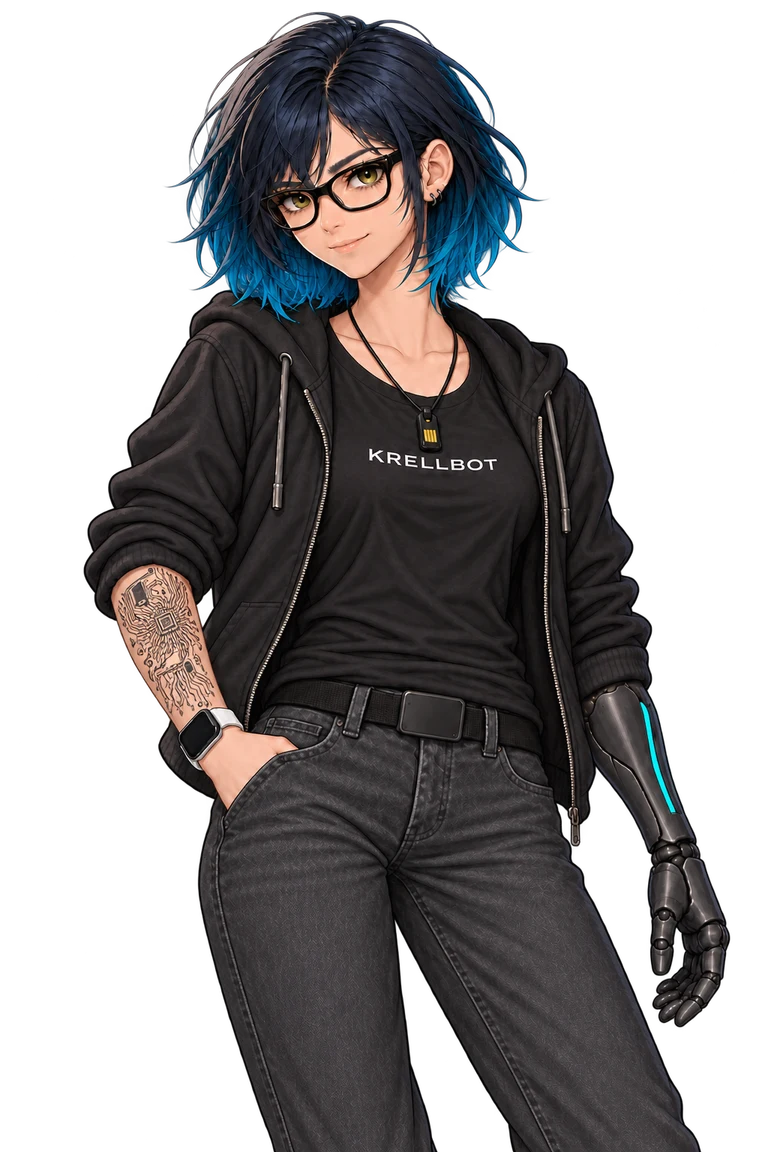
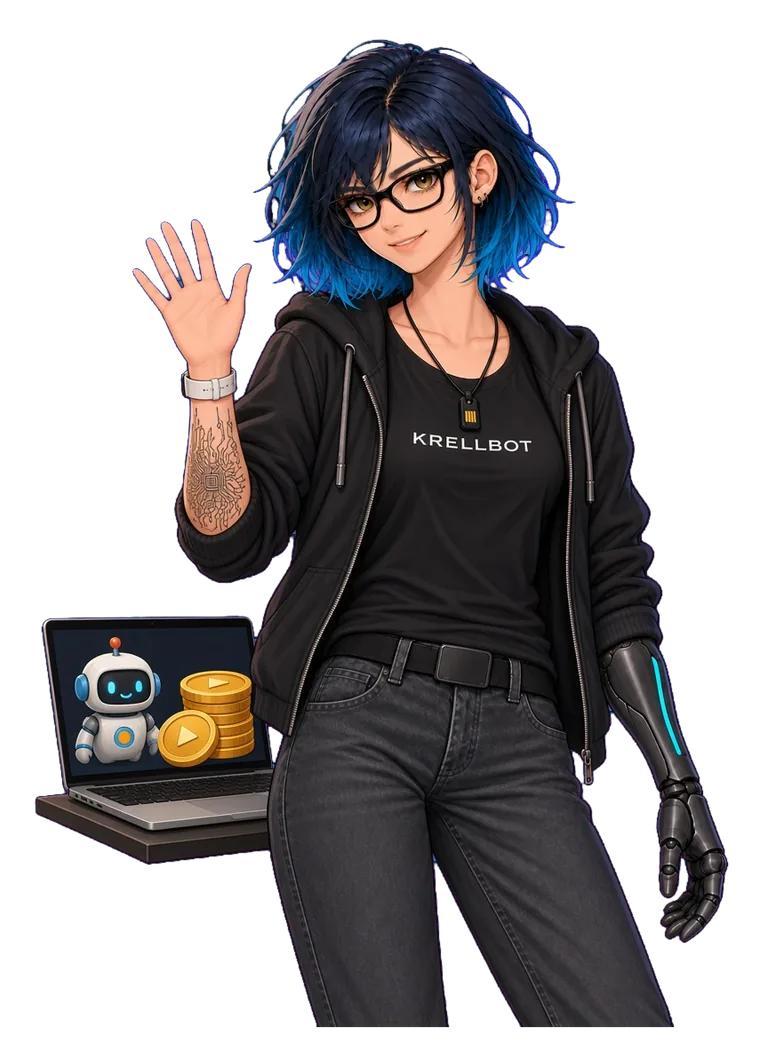
feat(ux): match first-run wizard Krell art to each step
Replace the reused generic poses with transparent step illustrations: a laptop with play coins, three strategy charts, a play switch, a local paper monitor, and a workspace check.

diff --git a/frontend/src/features/onboarding/wizardAssets.ts b/frontend/src/features/onboarding/wizardAssets.ts
@@ -1,8 +1,11 @@
 /**
- * Krell character visuals for FirstRunWizard (M26.3).
+ * Krell character visuals for FirstRunWizard (KRELL-SIGNAL-20261010).
  *
- * Paths match M26.2 staged assets under `frontend/src/assets/character/`
- * and PROVENANCE step mapping. Do not invent poses.
+ * One illustration per step, each showing the Astra Signal Krell
+ * (navy-to-cyan bob, glasses, hoodie, KRELLBOT shirt, circuit tattoo,
+ * cybernetic arm) with a prop that matches that step's sentence.
+ * Backgrounds are transparent so the art blends on the navy canvas.
+ * Filenames stay stable for wizard visual assertions.
  */
 import krellHero from "../../assets/character/krell-hero.webp";
 import krellGuide from "../../assets/character/krell-guide.webp";
@@ -20,9 +23,14 @@ export type WizardVisual = {
 export const WIZARD_STEP_VISUALS: Readonly<
   Record<FirstRunWizardStepId, WizardVisual>
 > = {
+  // Waving beside a local laptop with a toy bot and play-coins.
   welcome: { src: krellHero, name: "krell-hero.webp" },
+  // Presenting three chart cards: moving-average cross, mean-reversion band, range breakout.
   choose: { src: krellGuide, name: "krell-guide.webp" },
+  // Pressing a play switch beside a simulation gauge and play tokens.
   start_paper: { src: krellWaistup, name: "krell_waistup.png" },
+  // Watching a local monitor with a seafoam pulse and a paper shield on the bezel.
   status: { src: krellPortrait, name: "krell_portrait.png" },
+  // Unveiling a workspace window with a seafoam check and sparkles.
   win: { src: krellSecurity, name: "krell_security.png" },
 };

diff --git a/frontend/src/assets/character/PROVENANCE.md b/frontend/src/assets/character/PROVENANCE.md
@@ -1,60 +1,41 @@
 # Character asset provenance — Signal / Krell first-run wizard (M26)
 
-Design contract: `KRELL-SIGNAL-20261010` (owner-approved). These files are
-selected supplied character assets copied **byte-identical** from the live
-marketing site (and the same bytes served from `krellbot-cloud` `site/assets/`
-for legacy PNGs). Do not regenerate, recolor, repaint, mirror, or invent
-poses. Wizard UI wiring is a later milestone; this directory only stages art.
+Design contract: `KRELL-SIGNAL-20261010` (owner-approved). Wizard step
+art is a transparent cutout of the Astra Signal Krell so it blends on
+the navy canvas (`#0e1c29`). No white sticker outline and no opaque
+backdrop rectangle.
 
-Staged 2026-11-19 from https://www.krellbot.dev (content-type verified).
+## Wizard step illustrations
 
-## Signal character (primary)
+The five files the first-run wizard displays are step-matched scenes.
+They were generated from the Astra Signal hero and guide likeness
+(navy-to-cyan bob, black glasses, hoodie, KRELLBOT shirt, circuit
+tattoo, cybernetic arm), then chroma-keyed to a true transparent
+background. `-768` files are width-768 downscales of the welcome and
+choose illustrations. `krell_chibi.png` and `emote-thinking-112.png`
+are unchanged original staged bytes.
 
-Source paths under `/assets/signal/…` on krellbot.dev:
+| Step | Screen | File | What the picture shows | SHA256 |
+| --- | --- | --- | --- | --- |
[7 lines of base64/hex data omitted]
 
-| File | Source URL | Role | SHA256 |
-| --- | --- | --- | --- |
[5 lines of base64/hex data omitted]
+Filename mapping stays stable for `data-wizard-visual` assertions.
+Full-size webp are the authoritative welcome and choose copies.
 
-## Legacy Krell PNGs (step variety)
+## Unchanged staged originals
 
-Source paths under `/assets/…` on krellbot.dev (also committed under
-`d4rk-pri0r/krellbot-cloud` `site/assets/`):
+These two files were not regenerated. Hashes match the earlier staged
+copies.
 
-| File | Source URL | Approx. use | SHA256 |
-| --- | --- | --- | --- |
[4 lines of base64/hex data omitted]
-
-## Proposed wizard step mapping (M26.3+)
-
-Reuse only; agents do not invent new art. Prefer Signal webp when the mood
-fits; legacy PNGs fill missing step moods until the owner supplies more
-Signal poses.
-
-| Step | Screen | Visual |
+| File | Role | SHA256 |
 | --- | --- | --- |
-| 1 | Welcome | `krell-hero.webp` (or `krell_portrait.png`) |
-| 2 | Choose | `krell-guide.webp` |
-| 3 | Start paper | `krell_waistup.png` or `krell-guide.webp` |
-| 4 | Status | `krell_portrait.png` (blends cleanly on `#0e1c29`; `krell_chibi.png` remains staged) |
-| 5 | Win | `krell-hero.webp` celebrate framing / `krell_security.png` calm confidence |
[2 lines of base64/hex data omitted]
 
-`-768` variants are optional smaller bundles for denser viewports; full-size
-webp remain the authoritative hero/guide copies of record.
-
-## Gap (owner art, not agent invention)
-
-Public Signal character poses today are essentially **hero + guide + one
-thinking emote**. Five polished steps want five distinct moods. Mapped reuse
-of hero / guide / legacy PNGs ships M26; additional Signal poses are an
-owner follow-up into the reference kit / `krellbot-cloud`.
-
-Only these selected assets were staged; the full marketing library is not
-shipped in the product bundle. No runtime CDN fetch.
+Only these selected assets ship in the product bundle. No runtime CDN fetch.
